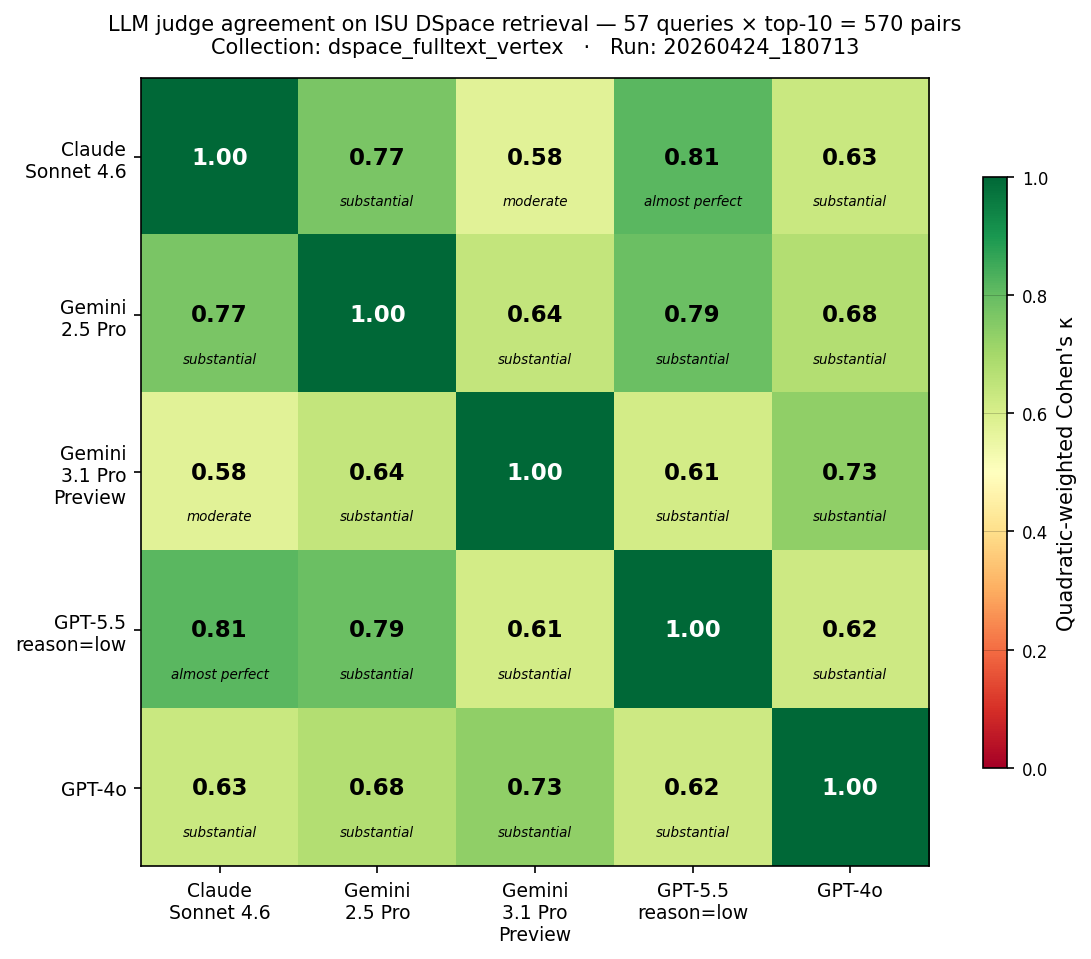
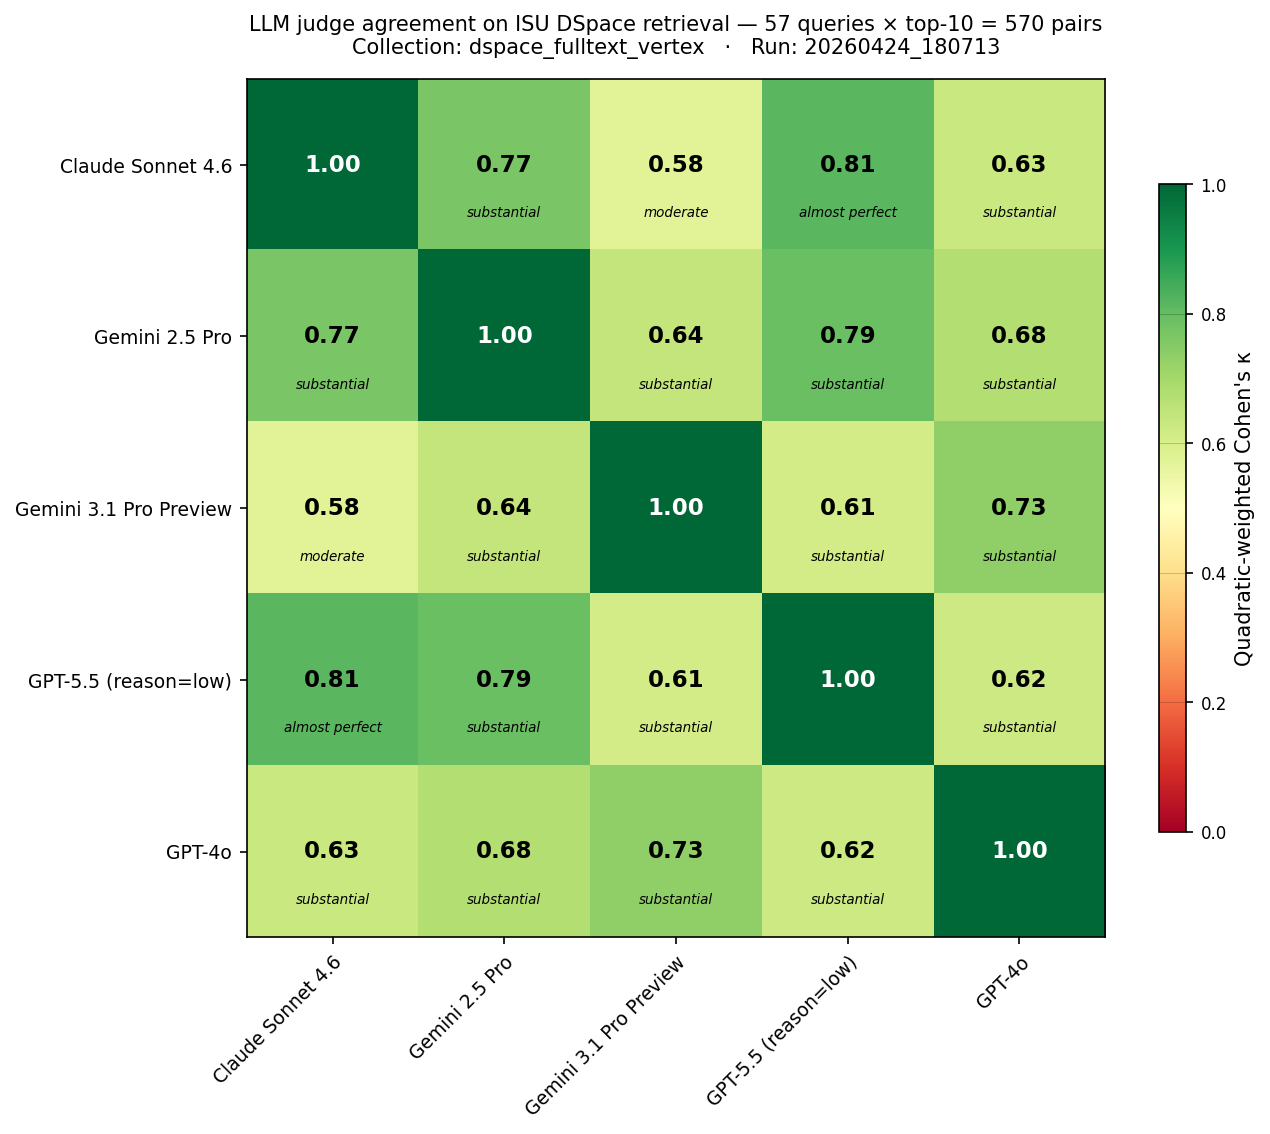
Fix overlapping x-axis labels on kappa heatmaps
Rotate x-tick labels 45 degrees with right-anchored alignment,
flatten multi-line short labels to single-line for clean rotated
rendering, bump figure size to 9.0x7.5 inches to accommodate.

Regenerated all three variants (5/7/9 judges) for visual
consistency. Added src/make_kappa_heatmap.py to the public repo
so the figures can be reproduced from the underlying multijudge
JSONs.

diff --git a/src/make_kappa_heatmap.py b/src/make_kappa_heatmap.py
@@ -1,0 +1,166 @@
+"""Generate κ-matrix heatmap for P4 §6.4.2 from the ablation JSON.
+
+Reads the combined multi-judge results file and writes a PNG heatmap of the
+pairwise quadratic-weighted Cohen's κ. Run once after any multi-judge eval.
+
+Usage:
+    py -3 papers/P4_llm_as_judge/make_kappa_heatmap.py \
+        [--input backend/data/eval/results_dspace_fulltext_vertex_multijudge_20260424_180713.json]
+
+Defaults to the newest multijudge JSON if --input is omitted.
+"""
+from __future__ import annotations
+
+import argparse
+import json
+import sys
+from pathlib import Path
+
+import matplotlib
+matplotlib.use("Agg")
+import matplotlib.pyplot as plt
+import numpy as np
+
+REPO = Path(__file__).resolve().parents[2]
+EVAL_DIR = REPO / "backend" / "data" / "eval"
+FIG_DIR = Path(__file__).resolve().parent / "figures"
+
+
+# Short labels for readability in the figure (map from full label prefix).
+# Single-line versions for clean 45-degree rotated x-axis labels.
+SHORT_LABELS = {
+    "Claude Opus 4.7": "Claude Opus 4.7",
+    "Claude Sonnet 4.6": "Claude Sonnet 4.6",
+    "Gemini 2.5 Pro": "Gemini 2.5 Pro",
+    "Gemini 3.1 Pro Preview": "Gemini 3.1 Pro Preview",
+    "GPT-5.5 (reasoning=low)": "GPT-5.5 (reason=low)",
+    "GPT-4o (chat)": "GPT-4o",
+    "DeepSeek V4 Pro": "DeepSeek V4 Pro",
+    "DeepSeek V4 Flash": "DeepSeek V4 Flash",
+}
+
+
+def short(label: str) -> str:
+    for prefix, short_form in SHORT_LABELS.items():
+        if label.startswith(prefix):
+            return short_form
+    return label
+
+
+def landis_koch_band(k: float) -> str:
+    if k < 0.0:   return "poor"
+    if k < 0.20:  return "slight"
+    if k < 0.40:  return "fair"
+    if k < 0.60:  return "moderate"
+    if k < 0.80:  return "substantial"
+    return "almost perfect"
+
+
+def make_heatmap(input_path: Path, output_path: Path) -> None:
+    with input_path.open(encoding="utf-8") as f:
+        data = json.load(f)
+
+    labels = data["config"]["judge_labels"]
+    n = len(labels)
+    mat = np.zeros((n, n))
+    for i, l1 in enumerate(labels):
+        for j, l2 in enumerate(labels):
+            v = data["kappa_matrix"][l1][l2]
+            mat[i, j] = v if v is not None else np.nan
+
+    short_labels = [short(l) for l in labels]
+
+    fig, ax = plt.subplots(figsize=(9.0, 7.5), dpi=150)
+    im = ax.imshow(mat, cmap="RdYlGn", vmin=0.0, vmax=1.0, aspect="equal")
+
+    ax.set_xticks(range(n))
+    ax.set_yticks(range(n))
+    ax.set_xticklabels(short_labels, fontsize=9)
+    ax.set_yticklabels(short_labels, fontsize=9)
+    plt.setp(ax.get_xticklabels(), rotation=45, ha="right",
+            rotation_mode="anchor")
+
+    for i in range(n):
+        for j in range(n):
+            v = mat[i, j]
+            if np.isnan(v):
+                txt = "n/a"
+                color = "gray"
+            else:
+                txt = f"{v:.2f}"
+                # White text on dark cells (low κ on red) and dark on light
+                color = "white" if v < 0.35 or v > 0.85 else "black"
+            # Add Landis-Koch band in small text underneath (skip diagonal)
+            if i == j:
+                ax.text(j, i, txt, ha="center", va="center",
+                        fontsize=11, fontweight="bold", color=color)
+            else:
+                band = landis_koch_band(v) if not np.isnan(v) else ""
+                ax.text(j, i, txt, ha="center", va="center",
+                        fontsize=11, fontweight="bold", color=color)
+                ax.text(j, i + 0.28, band, ha="center", va="center",
+                        fontsize=6.5, color=color, style="italic")
+
+    # Colorbar with Landis-Koch bands annotated
+    cbar = plt.colorbar(im, ax=ax, shrink=0.75, aspect=24)
+    cbar.set_label("Quadratic-weighted Cohen's κ", fontsize=10)
+    band_edges = [0.0, 0.20, 0.40, 0.60, 0.80, 1.00]
+    band_labels = ["slight", "fair", "moderate", "substantial", "almost perfect"]
+    for edge, label in zip(band_edges[:-1], band_labels):
+        cbar.ax.axhline(edge, color="black", linewidth=0.3, alpha=0.3)
+    # Secondary tick labels
+    cbar.set_ticks(band_edges)
+    cbar.ax.tick_params(labelsize=8)
+
+    config = data.get("config", {})
+    n_q = config.get("n_queries", "?")
+    n_pairs = config.get("n_retrieved_pairs", "?")
+    coll = config.get("collection", "?")
+    ts = config.get("timestamp", "?")
+
+    ax.set_title(
+        f"LLM judge agreement on ISU DSpace retrieval — "
+        f"{n_q} queries × top-{int(n_pairs)//int(n_q) if n_q else '?'} = {n_pairs} pairs\n"
+        f"Collection: {coll}   ·   Run: {ts}",
+        fontsize=10, pad=12,
+    )
+
+    output_path.parent.mkdir(parents=True, exist_ok=True)
+    plt.tight_layout()
+    plt.savefig(output_path, dpi=150, bbox_inches="tight")
+    plt.close(fig)
+    print(f"wrote {output_path}  ({output_path.stat().st_size} bytes)")
+
+
+def main() -> int:
+    ap = argparse.ArgumentParser(description=__doc__)
+    ap.add_argument("--input", type=str, default=None,
+                    help="Path to results_*_multijudge_*.json (default: newest)")
+    ap.add_argument("--output", type=str, default=None,
+                    help="Path to output PNG (default: figures/kappa_matrix_5judge.png)")
+    args = ap.parse_args()
+
+    if args.input:
+        input_path = Path(args.input)
+    else:
+        candidates = sorted(EVAL_DIR.glob("results_*_multijudge_*.json"),
+                            key=lambda p: p.stat().st_mtime, reverse=True)
+        if not candidates:
+            print("ERROR: no multijudge JSON found in", EVAL_DIR)
+            return 1
+        input_path = candidates[0]
+    print(f"input: {input_path}")
+
+    if args.output:
+        output_path = Path(args.output)
+    else:
+        # Dynamic name based on judge count in the source JSON
+        with input_path.open(encoding="utf-8") as f:
+            n_judges = len(json.load(f).get("config", {}).get("judge_labels", []))
+        output_path = FIG_DIR / f"kappa_matrix_{n_judges}judge.png"
+    make_heatmap(input_path, output_path)
+    return 0
+
+
+if __name__ == "__main__":
+    sys.exit(main())
